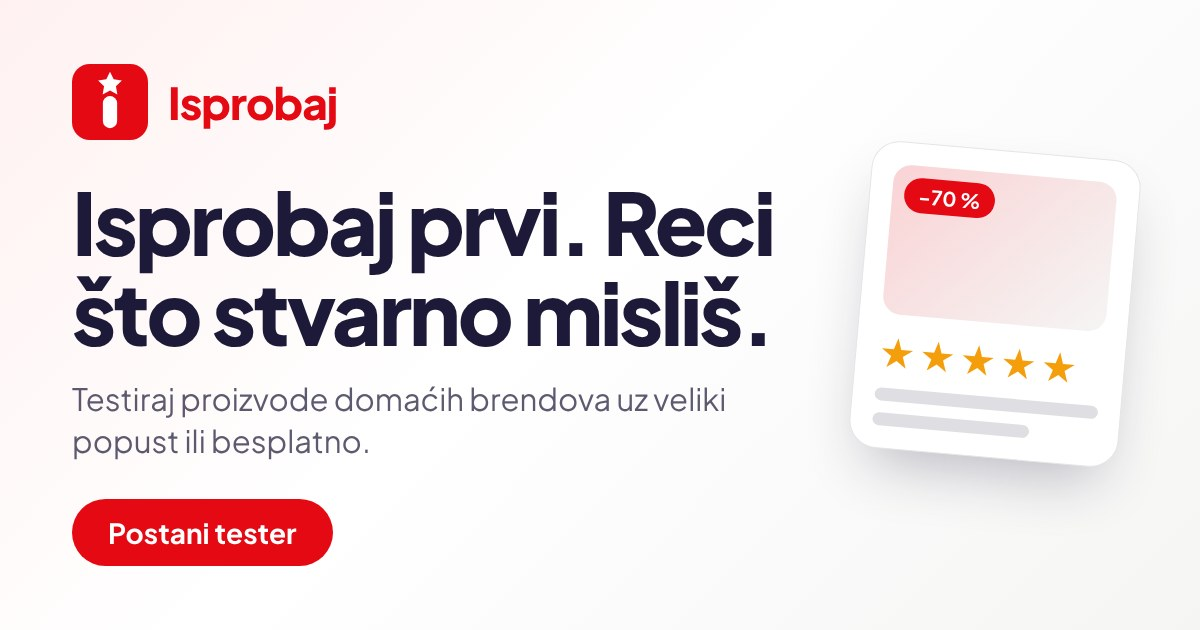
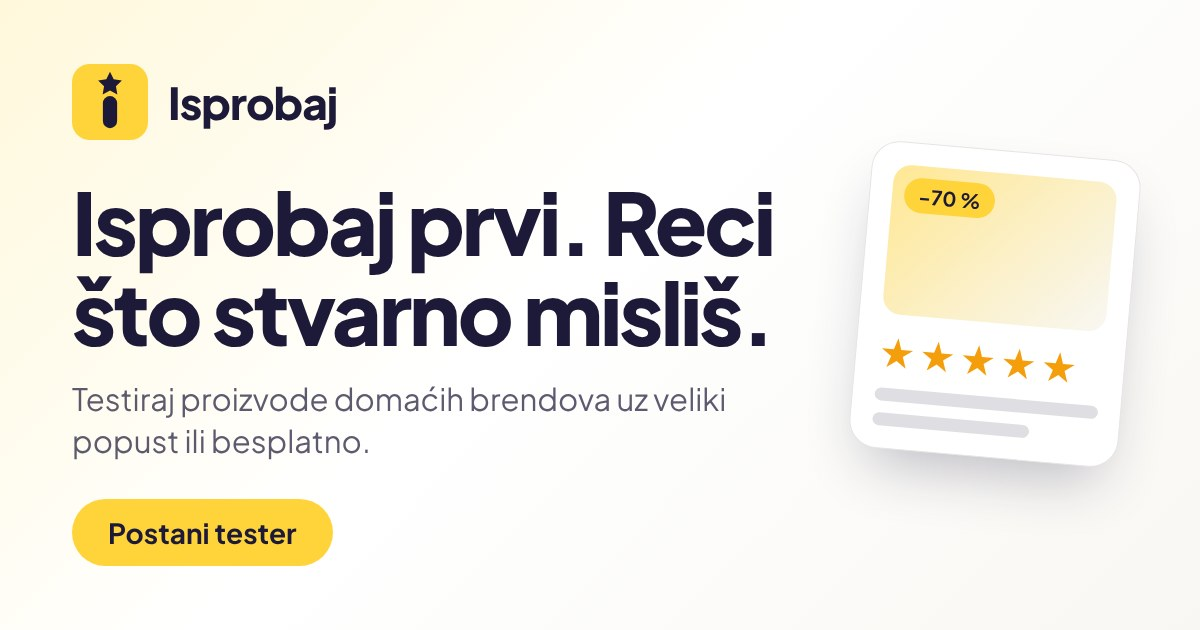
Zuta paleta s tamnim tekstom, svijetli odjeljak za brendove
Claude-Session: https://claude.ai/code/session_01UJEQZB1HhwHBpUq89R7Tg5

Changed region(s): [[0.7092, 0.2413, 0.925, 0.5127], [0.0617, 0.7841, 0.2775, 0.9048], [0.0617, 0.0905, 0.2775, 0.2413]]

diff --git a/app/page.tsx b/app/page.tsx
@@ -20,11 +20,11 @@ function HeroArt() {
         <div className="relative aspect-[4/3] overflow-hidden rounded-xl bg-gradient-to-br from-brand/20 to-tint-2">
           {/* eslint-disable-next-line @next/next/no-img-element -- ukrasna fotografija s Unsplasha */}
           <img src={main} alt="" className="h-full w-full object-cover" />
-          <span className="absolute top-2 left-2 rounded-full bg-brand px-2.5 py-0.5 text-[11px] font-bold text-white">−70 %</span>
+          <span className="absolute top-2 left-2 rounded-full bg-brand px-2.5 py-0.5 text-[11px] font-bold text-ink">−70 %</span>
         </div>
         <div className="mt-3 h-2.5 w-3/4 rounded-full bg-ink/15" />
         <div className="mt-2 h-2.5 w-1/2 rounded-full bg-ink/10" />
-        <div className="mt-3 rounded-full bg-brand py-1.5 text-center text-[11px] font-bold text-white">{h.claim}</div>
+        <div className="mt-3 rounded-full bg-brand py-1.5 text-center text-[11px] font-bold text-ink">{h.claim}</div>
       </div>
       <div className="absolute right-4 bottom-8 w-52 rotate-[4deg] rounded-2xl border border-stone-200 bg-white p-4 shadow-xl sm:w-60">
         <p className="text-lg tracking-wide text-amber-500">★★★★★</p>
@@ -81,7 +81,7 @@ export default async function LandingPage() {
                 <p className="eyebrow">{l.offersEyebrow}</p>
                 <h2 className="section-title mt-2">{l.offersTitle}</h2>
               </div>
-              <Link href="/ponude" className="inline-flex min-h-11 items-center text-sm font-bold text-brand hover:underline">{l.allOffers} →</Link>
+              <Link href="/ponude" className="inline-flex min-h-11 items-center text-sm font-bold text-accent hover:underline">{l.allOffers} →</Link>
             </div>
             <ul className="mt-6 grid gap-5 sm:grid-cols-2 lg:grid-cols-3">
               {(offers as Offer[]).map((o) => (
@@ -102,7 +102,7 @@ export default async function LandingPage() {
                   <div className="relative aspect-[4/3] bg-gradient-to-br from-tint to-tint-2">
                     {/* eslint-disable-next-line @next/next/no-img-element -- ilustrativna fotografija s Unsplasha */}
                     <img src={o.image} alt={`${l.exampleImageAlt}: ${o.name}`} loading="lazy" className="h-full w-full object-cover" />
-                    <span className="absolute top-3 left-3 rounded-full bg-brand px-3 py-1 text-xs font-bold text-white">
+                    <span className="absolute top-3 left-3 rounded-full bg-brand px-3 py-1 text-xs font-bold text-ink">
                       {o.discount === 100 ? t.offers.free : `−${o.discount} %`}
                     </span>
                   </div>
@@ -128,7 +128,7 @@ export default async function LandingPage() {
             <ol className="mt-8 grid gap-5 sm:grid-cols-3">
               {l.steps.map((s, i) => (
                 <li key={s.title} className="card">
-                  <span className="flex h-11 w-11 items-center justify-center rounded-full bg-brand text-lg font-extrabold text-white">{i + 1}</span>
+                  <span className="flex h-11 w-11 items-center justify-center rounded-full bg-brand text-lg font-extrabold text-ink">{i + 1}</span>
                   <h3 className="mt-4 text-lg font-bold">{s.title}</h3>
                   <p className="mt-1.5 text-sm text-ink/70">{s.text}</p>
                 </li>
@@ -191,18 +191,18 @@ export default async function LandingPage() {
         )}
 
         <section id="za-brendove" className="scroll-mt-20 px-4 py-10">
-          <div className="mx-auto grid max-w-6xl gap-8 rounded-[2rem] bg-ink px-6 py-12 text-white sm:px-12 lg:grid-cols-2 lg:items-center">
+          <div className="mx-auto grid max-w-6xl gap-8 rounded-[2rem] bg-brand px-6 py-12 text-ink sm:px-12 lg:grid-cols-2 lg:items-center">
             <div>
-              <p className="text-xs font-bold tracking-widest text-red-300 uppercase">{l.brandEyebrow}</p>
+              <p className="text-xs font-bold tracking-widest text-ink/65 uppercase">{l.brandEyebrow}</p>
               <h2 className="section-title mt-2">{l.brandTitle}</h2>
-              <p className="mt-4 max-w-md text-white/75">{l.brandText}</p>
-              <Link href="/registracija?uloga=brand" className="btn-light mt-7 px-8">{l.ctaBrand}</Link>
+              <p className="mt-4 max-w-md text-ink/80">{l.brandText}</p>
+              <Link href="/registracija?uloga=brand" className="btn mt-7 bg-ink px-8 text-white hover:bg-ink/85">{l.ctaBrand}</Link>
             </div>
             <ul className="space-y-4">
               {l.brandPoints.map((p) => (
-                <li key={p.title} className="rounded-2xl bg-white/8 p-5 ring-1 ring-white/10">
+                <li key={p.title} className="rounded-2xl bg-white/75 p-5 ring-1 ring-ink/5">
                   <h3 className="font-bold">{p.title}</h3>
-                  <p className="mt-1 text-sm text-white/70">{p.text}</p>
+                  <p className="mt-1 text-sm text-ink/70">{p.text}</p>
                 </li>
               ))}
             </ul>

diff --git a/app/globals.css b/app/globals.css
@@ -3,11 +3,12 @@
 
 @theme inline {
   --font-sans: "Plus Jakarta Sans Variable", ui-sans-serif, system-ui, -apple-system, "Segoe UI", sans-serif;
-  --color-brand: #e50914;
-  --color-brand-dark: #b20710;
+  --color-brand: #ffd43b;
+  --color-accent: #8a5a00;
+  --color-brand-dark: #f5c211;
   --color-ink: #1d1a39;
-  --color-tint: #fff1f1;
-  --color-tint-2: #f5f5f4;
+  --color-tint: #fff8db;
+  --color-tint-2: #f8f7f3;
 }
 
 body {
@@ -17,7 +18,7 @@ body {
 
 @layer components {
   .btn {
-    @apply inline-flex min-h-11 items-center justify-center rounded-full bg-brand px-6 text-sm font-bold text-white transition hover:bg-brand-dark focus-visible:outline-2 focus-visible:outline-offset-2 focus-visible:outline-brand;
+    @apply inline-flex min-h-11 items-center justify-center rounded-full bg-brand px-6 text-sm font-bold text-ink transition hover:bg-brand-dark focus-visible:outline-2 focus-visible:outline-offset-2 focus-visible:outline-ink;
   }
   .btn-ghost {
     @apply inline-flex min-h-11 items-center justify-center rounded-full border-2 border-ink/15 bg-white px-6 text-sm font-bold text-ink transition hover:border-ink/40 focus-visible:outline-2 focus-visible:outline-offset-2 focus-visible:outline-ink;
@@ -26,7 +27,7 @@ body {
     @apply inline-flex min-h-11 items-center justify-center rounded-full bg-white px-6 text-sm font-bold text-ink transition hover:bg-tint;
   }
   .input {
-    @apply block min-h-11 w-full rounded-xl border border-stone-300 bg-white px-3.5 text-base outline-none focus:border-brand focus:ring-2 focus:ring-brand/20;
+    @apply block min-h-11 w-full rounded-xl border border-stone-300 bg-white px-3.5 text-base outline-none focus:border-ink focus:ring-2 focus:ring-brand/60;
   }
   .label {
     @apply mb-1 block text-sm font-semibold text-ink/80;
@@ -35,7 +36,7 @@ body {
     @apply rounded-2xl border border-stone-200/80 bg-white p-5 shadow-[0_1px_2px_rgb(29_26_57/0.04),0_8px_24px_-12px_rgb(29_26_57/0.12)];
   }
   .eyebrow {
-    @apply text-xs font-bold tracking-widest text-brand uppercase;
+    @apply inline-block rounded-full bg-brand px-3 py-1 text-xs font-bold tracking-wider text-ink uppercase;
   }
   .section-title {
     @apply text-3xl font-extrabold tracking-tight text-balance sm:text-4xl;

diff --git a/app/(tester)/moji-testovi/[id]/page.tsx b/app/(tester)/moji-testovi/[id]/page.tsx
@@ -37,7 +37,7 @@ export default async function TestPage({ params, searchParams }: PageProps<"/moj
 
   return (
     <div className="max-w-xl">
-      <Link href="/moji-testovi" className="text-sm font-medium text-brand">← {x.back}</Link>
+      <Link href="/moji-testovi" className="text-sm font-medium text-accent">← {x.back}</Link>
       <p className="mt-3 text-sm font-medium text-stone-500">{brand?.name}</p>
       <h1 className="text-2xl font-bold">{c?.product_name}</h1>
       <p className="mt-2 inline-block rounded-full bg-stone-100 px-3 py-1 text-xs font-medium text-stone-700">
@@ -60,7 +60,7 @@ export default async function TestPage({ params, searchParams }: PageProps<"/moj
           <p className="text-sm font-medium">{t.order.buyBy(day(o.purchase_due_at))}</p>
           {c?.purchase_instructions && <p className="text-sm whitespace-pre-line text-stone-700">{c.purchase_instructions}</p>}
           {c?.product_url && (
-            <a href={c.product_url} target="_blank" rel="noopener noreferrer nofollow" className="inline-block text-sm font-medium text-brand">
+            <a href={c.product_url} target="_blank" rel="noopener noreferrer nofollow" className="inline-block text-sm font-medium text-accent">
               {t.offer.productLink} ↗
             </a>
           )}
@@ -125,7 +125,7 @@ export default async function TestPage({ params, searchParams }: PageProps<"/moj
               <legend className="label">{x.rating}</legend>
               <div className="flex gap-2">
                 {[1, 2, 3, 4, 5].map((n) => (
-                  <label key={n} className="flex h-11 w-11 cursor-pointer items-center justify-center rounded-lg border border-stone-300 bg-white font-semibold has-checked:border-brand has-checked:bg-brand has-checked:text-white">
+                  <label key={n} className="flex h-11 w-11 cursor-pointer items-center justify-center rounded-lg border border-stone-300 bg-white font-semibold has-checked:border-ink has-checked:bg-brand has-checked:text-ink">
                     <input type="radio" name="rating" value={n} required defaultChecked={review?.rating === n} className="sr-only" />
                     {n}
                   </label>

diff --git a/components/site-footer.tsx b/components/site-footer.tsx
@@ -7,22 +7,22 @@ export function SiteFooter() {
     <footer className="mt-auto border-t border-stone-200 bg-tint-2/60">
       <div className="mx-auto grid max-w-6xl gap-8 px-4 py-10 sm:grid-cols-3">
         <div>
-          <p className="text-lg font-extrabold text-brand">{t.appName}</p>
+          <p className="text-lg font-extrabold text-accent">{t.appName}</p>
           <p className="mt-2 max-w-xs text-sm text-ink/65">{f.tagline}</p>
         </div>
         <nav aria-label={f.testers}>
           <p className="text-sm font-bold">{f.testers}</p>
           <ul className="mt-2 space-y-1 text-sm text-ink/70">
-            <li><Link href="/ponude" className="inline-block py-1 hover:text-brand">{t.nav.offers}</Link></li>
-            <li><Link href="/registracija?uloga=tester" className="inline-block py-1 hover:text-brand">{f.becomeTester}</Link></li>
-            <li><Link href="/prijava" className="inline-block py-1 hover:text-brand">{t.nav.login}</Link></li>
+            <li><Link href="/ponude" className="inline-block py-1 hover:text-accent">{t.nav.offers}</Link></li>
+            <li><Link href="/registracija?uloga=tester" className="inline-block py-1 hover:text-accent">{f.becomeTester}</Link></li>
+            <li><Link href="/prijava" className="inline-block py-1 hover:text-accent">{t.nav.login}</Link></li>
           </ul>
         </nav>
         <nav aria-label={f.brands}>
           <p className="text-sm font-bold">{f.brands}</p>
           <ul className="mt-2 space-y-1 text-sm text-ink/70">
-            <li><Link href="/registracija?uloga=brand" className="inline-block py-1 hover:text-brand">{f.startCampaign}</Link></li>
-            <li><Link href="/#za-brendove" className="inline-block py-1 hover:text-brand">{f.howForBrands}</Link></li>
+            <li><Link href="/registracija?uloga=brand" className="inline-block py-1 hover:text-accent">{f.startCampaign}</Link></li>
+            <li><Link href="/#za-brendove" className="inline-block py-1 hover:text-accent">{f.howForBrands}</Link></li>
           </ul>
         </nav>
       </div>

diff --git a/components/site-header.tsx b/components/site-header.tsx
@@ -29,14 +29,14 @@ export async function SiteHeader() {
   return (
     <header className="sticky top-0 z-20 border-b border-stone-200/80 bg-white/90 backdrop-blur">
       <div className="mx-auto flex max-w-6xl flex-wrap items-center gap-x-8 gap-y-1 px-4 py-3">
-        <Link href="/" className="flex items-center gap-2 text-xl font-extrabold tracking-tight text-brand">
+        <Link href="/" className="flex items-center gap-2 text-xl font-extrabold tracking-tight text-accent">
           {/* eslint-disable-next-line @next/next/no-img-element -- mali SVG znak, bez optimizacije */}
           <img src="/icon.svg" alt="" width={30} height={30} />
           {t.appName}
         </Link>
         <nav className="order-3 flex w-full flex-wrap items-center gap-x-6 text-sm font-semibold text-ink/75 sm:order-none sm:w-auto sm:flex-1">
           {links.map((l) => (
-            <Link key={l.href} href={l.href} className="py-2 hover:text-brand">
+            <Link key={l.href} href={l.href} className="py-2 hover:text-accent">
               {l.label}
             </Link>
           ))}
@@ -44,11 +44,11 @@ export async function SiteHeader() {
         <div className="ml-auto flex items-center gap-2 text-sm font-semibold">
           {profile ? (
             <form action="/auth/odjava" method="post">
-              <button className="min-h-11 px-2 text-ink/70 hover:text-brand">{t.nav.logout}</button>
+              <button className="min-h-11 px-2 text-ink/70 hover:text-accent">{t.nav.logout}</button>
             </form>
           ) : (
             <>
-              <Link href="/prijava" className="inline-flex min-h-11 items-center px-3 text-ink/80 hover:text-brand">
+              <Link href="/prijava" className="inline-flex min-h-11 items-center px-3 text-ink/80 hover:text-accent">
                 {t.nav.login}
               </Link>
               <Link href="/registracija" className="btn">

diff --git a/components/offer-card.tsx b/components/offer-card.tsx
@@ -35,17 +35,17 @@ export function OfferCard({ offer: c }: { offer: Offer }) {
           // eslint-disable-next-line @next/next/no-img-element -- slika je s domene brenda, nepoznate unaprijed
           <img src={c.product_image_url} alt="" loading="lazy" className="h-full w-full object-cover" />
         ) : (
-          <span aria-hidden className="flex h-full items-center justify-center text-6xl font-extrabold text-brand/25">
+          <span aria-hidden className="flex h-full items-center justify-center text-6xl font-extrabold text-accent/25">
             {c.product_name.charAt(0).toUpperCase()}
           </span>
         )}
-        <span className="absolute top-3 left-3 rounded-full bg-brand px-3 py-1 text-xs font-bold text-white">
+        <span className="absolute top-3 left-3 rounded-full bg-brand px-3 py-1 text-xs font-bold text-ink">
           {free ? t.offers.free : `−${c.discount_percent} %`}
         </span>
       </div>
       <div className="flex flex-1 flex-col p-4">
         <p className="text-xs font-semibold text-ink/55">{brand?.name}</p>
-        <h3 className="mt-0.5 font-bold group-hover:text-brand">{c.product_name}</h3>
+        <h3 className="mt-0.5 font-bold group-hover:text-accent">{c.product_name}</h3>
         <p className="mt-2 flex items-baseline gap-2">
           <span className="text-lg font-extrabold">{free ? t.offers.free : money(price * (1 - c.discount_percent / 100), c.currency)}</span>
           <span className="text-sm text-ink/45 line-through">{money(price, c.currency)}</span>

diff --git a/app/(tester)/ponude/[slug]/page.tsx b/app/(tester)/ponude/[slug]/page.tsx
@@ -43,7 +43,7 @@ export default async function OfferPage({ params, searchParams }: PageProps<"/po
 
   return (
     <div className="max-w-2xl">
-      <Link href="/ponude" className="text-sm font-medium text-brand">← {o.back}</Link>
+      <Link href="/ponude" className="text-sm font-medium text-accent">← {o.back}</Link>
       <p className="mt-3 text-sm font-medium text-stone-500">{brand?.name}</p>
       <h1 className="text-2xl font-bold">{c.product_name}</h1>
 
@@ -59,14 +59,14 @@ export default async function OfferPage({ params, searchParams }: PageProps<"/po
         </div>
         <div className="card p-4">
           <dt className="text-xs text-stone-500">{o.yourPrice}</dt>
-          <dd className="mt-1 text-lg font-bold text-brand">
+          <dd className="mt-1 text-lg font-bold text-accent">
             {c.discount_percent === 100 ? t.offers.free : money(price * (1 - c.discount_percent / 100), c.currency)}
           </dd>
         </div>
       </dl>
 
       {c.description && <p className="mt-5 whitespace-pre-line text-stone-700">{c.description}</p>}
-      <a href={c.product_url} target="_blank" rel="noopener noreferrer nofollow" className="mt-3 inline-block text-sm font-medium text-brand">
+      <a href={c.product_url} target="_blank" rel="noopener noreferrer nofollow" className="mt-3 inline-block text-sm font-medium text-accent">
         {o.productLink} ↗
       </a>
 

diff --git a/app/(auth)/registracija/page.tsx b/app/(auth)/registracija/page.tsx
@@ -33,7 +33,7 @@ export default async function RegisterPage({ searchParams }: PageProps<"/registr
           <legend className="label">{t.auth.roleLabel}</legend>
           <div className="grid grid-cols-2 gap-2">
             {(["tester", "brand"] as const).map((r) => (
-              <label key={r} className="flex min-h-11 cursor-pointer items-center gap-2 rounded-lg border border-stone-300 bg-white px-3 text-sm has-checked:border-brand has-checked:bg-teal-50">
+              <label key={r} className="flex min-h-11 cursor-pointer items-center gap-2 rounded-lg border border-stone-300 bg-white px-3 text-sm has-checked:border-ink has-checked:bg-teal-50">
                 <input type="radio" name="role" value={r} defaultChecked={role === r} />
                 {r === "tester" ? t.auth.roleTester : t.auth.roleBrand}
               </label>
@@ -60,7 +60,7 @@ export default async function RegisterPage({ searchParams }: PageProps<"/registr
       </form>
       <p className="mt-5 text-sm text-stone-600">
         {t.auth.hasAccount}{" "}
-        <Link href="/prijava" className="font-semibold text-brand">{t.nav.login}</Link>
+        <Link href="/prijava" className="font-semibold text-accent">{t.nav.login}</Link>
       </p>
     </div>
   );

diff --git a/app/(brand)/dashboard/kampanje/[id]/page.tsx b/app/(brand)/dashboard/kampanje/[id]/page.tsx
@@ -41,7 +41,7 @@ export default async function CampaignDetailPage({ params, searchParams }: PageP
 
   return (
     <div className="max-w-2xl">
-      <Link href="/dashboard/kampanje" className="text-sm font-medium text-brand">← {d.back}</Link>
+      <Link href="/dashboard/kampanje" className="text-sm font-medium text-accent">← {d.back}</Link>
       <h1 className="mt-2 text-2xl font-bold">{c.title}</h1>
       <p className="mt-1 text-sm text-stone-600">
         {c.product_name} · {money(Number(c.product_price), c.currency)} · −{c.discount_percent} % ·{" "}
@@ -103,7 +103,7 @@ export default async function CampaignDetailPage({ params, searchParams }: PageP
         {c.status === "active" && (
           <>
             <button name="intent" value="pause" className="btn-ghost">{d.pause}</button>
-            <Link href={`/ponude/${c.slug}`} className="text-sm font-medium text-brand">{d.publicLink}</Link>
+            <Link href={`/ponude/${c.slug}`} className="text-sm font-medium text-accent">{d.publicLink}</Link>
           </>
         )}
       </form>

diff --git a/app/(admin)/admin/page.tsx b/app/(admin)/admin/page.tsx
@@ -76,7 +76,7 @@ export default async function AdminPage({ searchParams }: PageProps<"/admin">) {
                   <p className="font-semibold">{o.product} <span className="font-normal text-stone-500">· {o.brand} · {a.waiting(hoursSince(o.updated_at))}</span></p>
                   <p className="mt-1 text-sm text-stone-700">{t.brandOrders.orderNumber}: <span className="font-mono">{o.external_order_number ?? t.brandOrders.noNumber}</span></p>
                   {proofUrls.has(o.id) && (
-                    <a href={proofUrls.get(o.id)} target="_blank" rel="noopener noreferrer" className="mt-1 inline-block text-sm font-medium text-brand">{a.proof} ↗</a>
+                    <a href={proofUrls.get(o.id)} target="_blank" rel="noopener noreferrer" className="mt-1 inline-block text-sm font-medium text-accent">{a.proof} ↗</a>
                   )}
                   <form action={resolveOrder} className="mt-3 flex flex-wrap gap-3">
                     <input type="hidden" name="order_id" value={o.id} />

diff --git a/app/(brand)/dashboard/recenzije/page.tsx b/app/(brand)/dashboard/recenzije/page.tsx
@@ -113,7 +113,7 @@ export default async function ModerationPage({ searchParams }: PageProps<"/dashb
                       <p className="text-sm text-amber-900">{m.extPosted}</p>
                       <div className="mt-2 flex flex-wrap items-center gap-3">
                         <button className="btn">{m.extConfirm}</button>
-                        <a href={r.campaign.external_review_url} target="_blank" rel="noopener noreferrer" className="text-sm font-medium text-brand">
+                        <a href={r.campaign.external_review_url} target="_blank" rel="noopener noreferrer" className="text-sm font-medium text-accent">
                           {t.offer.productLink} ↗
                         </a>
                       </div>

diff --git a/app/(brand)/dashboard/kampanje/page.tsx b/app/(brand)/dashboard/kampanje/page.tsx
@@ -32,7 +32,7 @@ export default async function CampaignsPage({ searchParams }: PageProps<"/dashbo
         <ul className="mt-6 space-y-3">
           {campaigns.map((c) => (
             <li key={c.id}>
-              <Link href={`/dashboard/kampanje/${c.id}`} className="card flex flex-wrap items-center justify-between gap-2 hover:border-brand">
+              <Link href={`/dashboard/kampanje/${c.id}`} className="card flex flex-wrap items-center justify-between gap-2 hover:border-ink">
                 <span>
                   <span className="font-semibold">{c.title}</span>
                   <span className="block text-sm text-stone-600">{c.product_name} · −{c.discount_percent} %</span>
